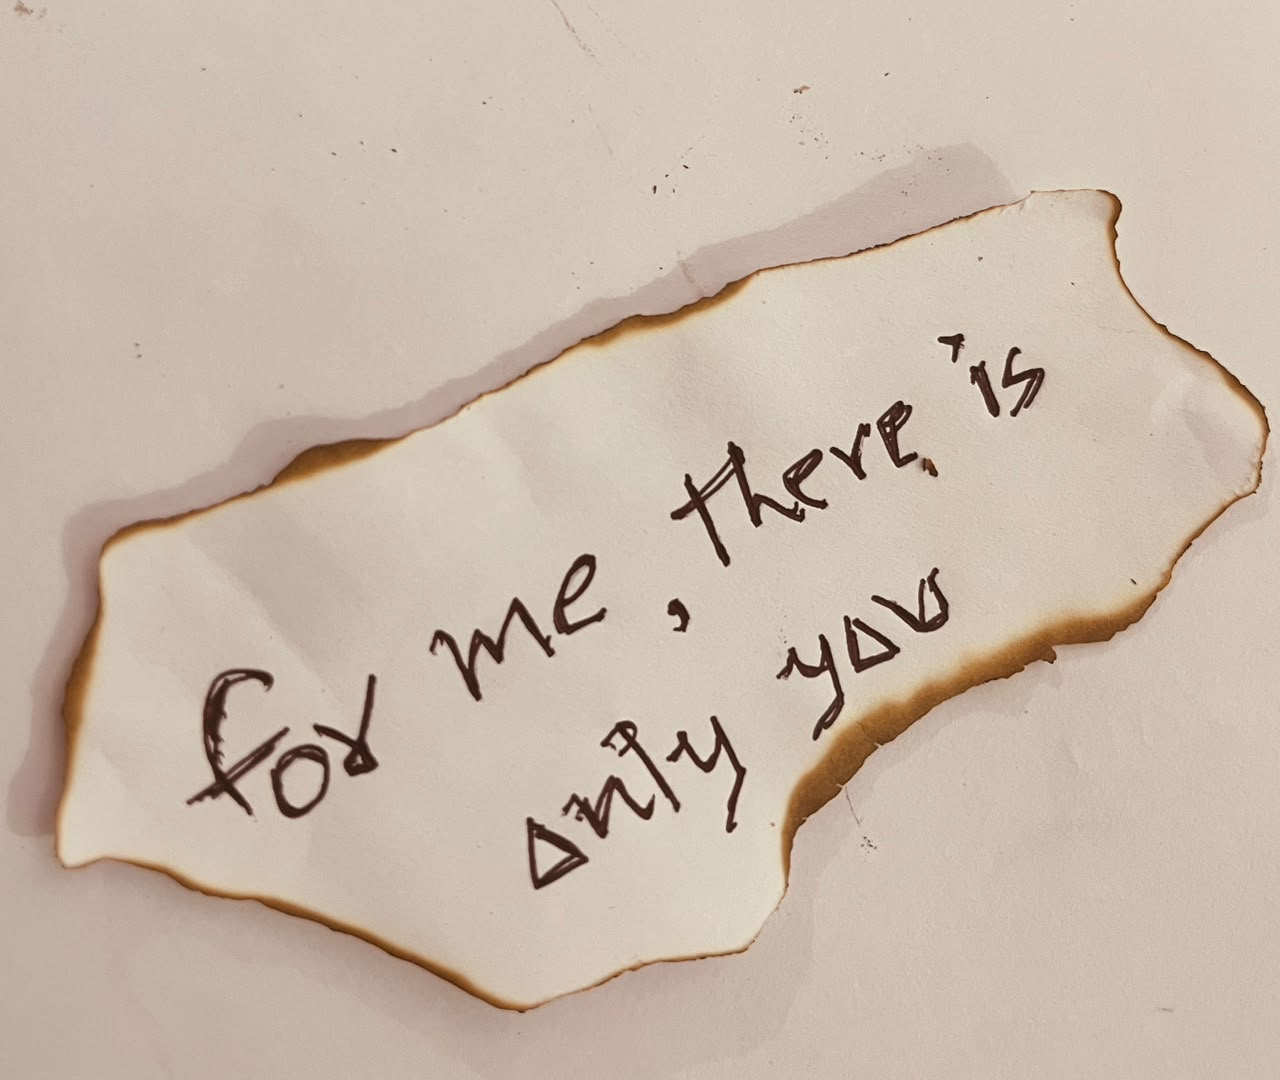
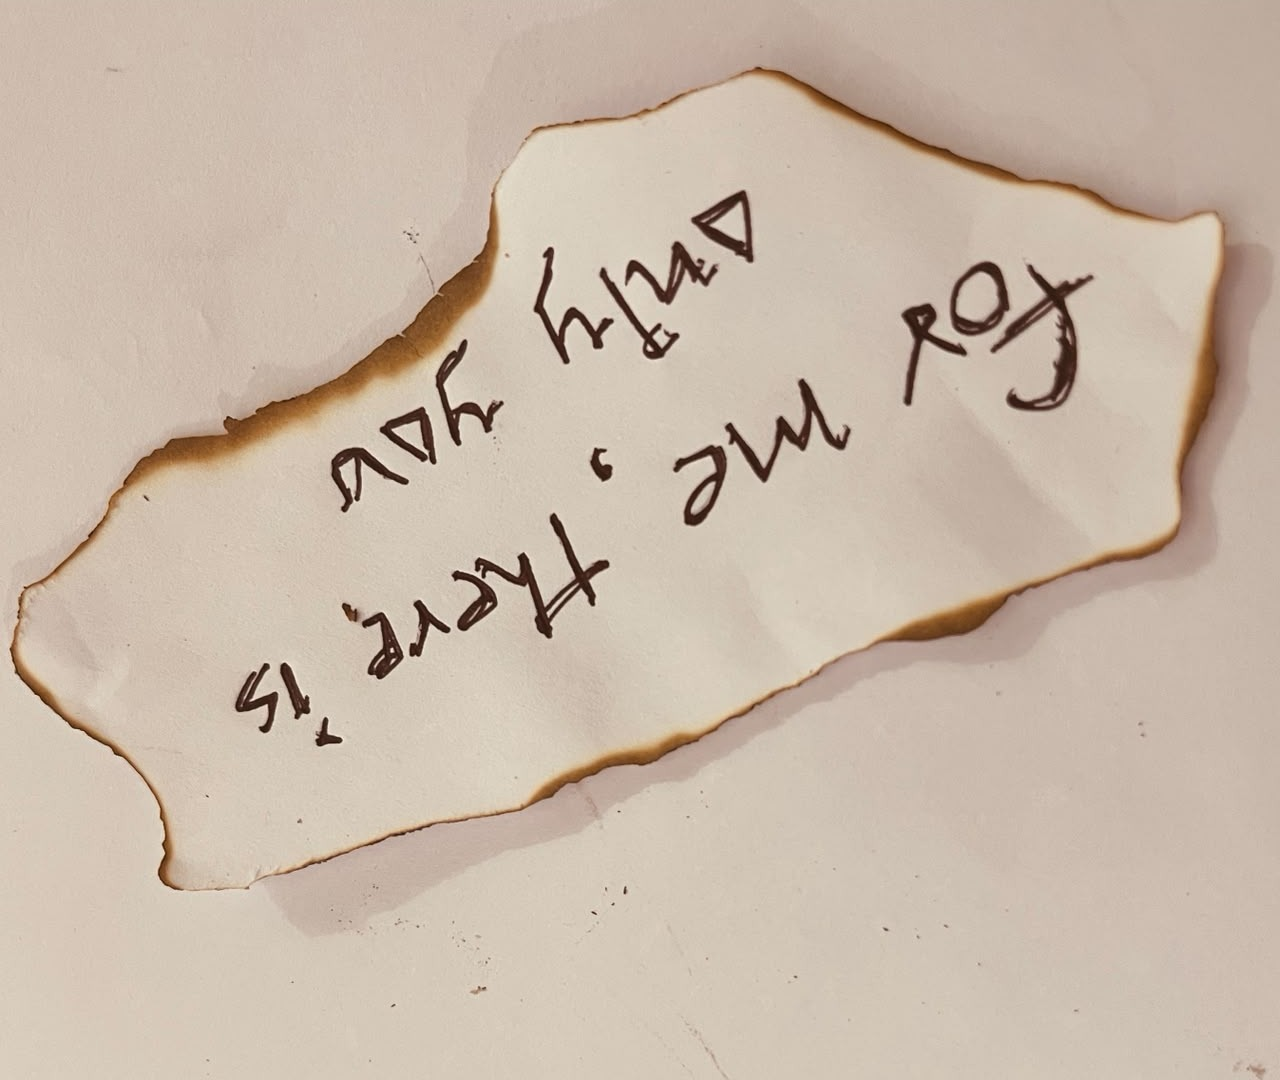
Refactor media handling and improve quiz functionality; update metadata and remove unused Vercel configuration

diff --git a/src/components/story/story-experience.tsx b/src/components/story/story-experience.tsx
@@ -42,7 +42,7 @@ export function StoryExperience({ content }: { content: SafeContent }) {
     {view === "gift" && <Gift onOpen={() => { setConfetti(true); setTimeout(() => setConfetti(false), 2400); }} />}
     {view === "ending" && <Ending content={content} onSecret={() => go("secret")} onReplay={() => { localStorage.removeItem("for-u-sudd-progress"); setChapter(0); setQuiz(0); go("welcome"); }} />}
     {view === "secret" && <SecretAlbum content={content} onOpen={setMediaId} onExit={() => go("ending")} />}
-  </motion.section></AnimatePresence>{view !== "start" && view !== "ending" && <nav className="story-nav" aria-label="Story navigation"><button className="secondary" onClick={previous} disabled={index === 0}><ArrowLeft aria-hidden="true" /> Back</button><button className="primary" onClick={next}>Continue <ArrowRight aria-hidden="true" /></button></nav>}<AnimatePresence>{active?.kind === "image" && <MediaOverlay media={active} onClose={() => setMediaId(null)} />}</AnimatePresence></main>;
+  </motion.section></AnimatePresence>{view !== "start" && view !== "ending" && view !== "quiz" && <nav className="story-nav" aria-label="Story navigation"><button className="secondary" onClick={previous} disabled={index === 0}><ArrowLeft aria-hidden="true" /> Back</button><button className="primary" onClick={next}>Continue <ArrowRight aria-hidden="true" /></button></nav>}<AnimatePresence>{active?.kind === "image" && <MediaOverlay media={active} onClose={() => setMediaId(null)} />}</AnimatePresence></main>;
 }
 
 function Preflight({ onReady }: { onReady: () => void }) { const [ready, setReady] = useState(false); useEffect(() => { const timer = setTimeout(() => setReady(true), 420); return () => clearTimeout(timer); }, []); return <div className="poster preflight"><Heart className="poster-heart" fill="currentColor" aria-hidden="true"/><p className="eyebrow">loading memories</p><h1>{ready ? "Ready when you are." : "Just a moment…"}</h1><p>{ready ? "The first memory is waiting." : "Preparing only the next small piece of your story."}</p>{ready && <button className="primary" onClick={onReady}>Continue <ArrowRight /></button>}</div>; }
@@ -53,7 +53,7 @@ function Chapter({ chapter, media }: { chapter: StoryContent["chapters"][number]
 function Albums({ content, onOpen }: { content: SafeContent; onOpen: (id: string) => void }) { return <section className="collection"><p className="eyebrow">the little things</p><h1>Our photo album</h1>{content.albums.map((album) => <div className="album" key={album.id}><h2>{album.title}</h2><div className="photo-grid">{album.mediaIds.map((id) => { const media = content.media.find((item) => item.id === id); return media && <button className="photo-button" onClick={() => onOpen(id)} key={id}><MediaImage media={media} /><span>{media.caption}</span></button>; })}</div></div>)}</section>; }
 function Videos({ content, onForegroundPlay, onForegroundEnd }: { content: SafeContent; onForegroundPlay: () => void; onForegroundEnd: () => void }) { return <section className="collection"><p className="eyebrow">press play</p><h1>Little moving memories</h1>{content.videos.length ? <div className="video-list">{content.videos.map((video) => { const media = content.media.find((item) => item.id === video.mediaId); const poster = media?.posterId ? content.media.find((item) => item.id === media.posterId) : undefined; return media && <article className="video-card" key={video.id}><video src={`/api/media/${media.id}`} controls playsInline preload="metadata" poster={poster ? `/api/media/${poster.id}` : undefined} onPlay={onForegroundPlay} onEnded={onForegroundEnd} /><span><Play fill="currentColor" />{video.title}</span></article>; })}</div> : <Empty title="More is on its way" text="Approved video memories will appear here when they are ready." />}</section>; }
 function Voice({ content, onForegroundPlay, onForegroundEnd }: { content: SafeContent; onForegroundPlay: () => void; onForegroundEnd: () => void }) { const media = content.voice.mediaId ? content.media.find((item) => item.id === content.voice.mediaId) : undefined; return <section className="voice"><p className="eyebrow">a voice to keep</p><h1>{content.voice.title}</h1>{media ? <div className="inline-audio"><Play fill="currentColor" aria-hidden="true" /><audio src={`/api/media/${media.id}`} controls preload="metadata" onPlay={onForegroundPlay} onEnded={onForegroundEnd} /></div> : <Empty title="A message is waiting" text="This part of the story will open when its voice note is ready." />}</section>; }
-function Quiz({ item, final, onNext }: { item: StoryContent["quiz"][number]; final: boolean; onNext: () => void }) { const [answer, setAnswer] = useState(""); const [feedback, setFeedback] = useState(""); const submit = () => { if (matchesAnswer(answer, item.acceptedAnswers)) { setFeedback("That is right. ✦"); } else setFeedback(item.hint ?? "Not quite — try again."); }; return <section className="quiz"><p className="eyebrow">a question for you</p><h1>{item.question}</h1><label htmlFor={`quiz-${item.id}`} className="sr-only">Your answer</label><input id={`quiz-${item.id}`} value={answer} onChange={(event) => setAnswer(event.target.value)} onKeyDown={(event) => event.key === "Enter" && submit()} placeholder="Type your answer"/><button className="primary" onClick={feedback.startsWith("That") ? onNext : submit}>{feedback.startsWith("That") ? (final ? "Open the letter" : "Next question") : "Check answer"} <ArrowRight /></button><p aria-live="polite" className="quiz-feedback">{feedback}</p></section>; }
+function Quiz({ item, final, onNext }: { item: StoryContent["quiz"][number]; final: boolean; onNext: () => void }) { const [answer, setAnswer] = useState(""); const [feedback, setFeedback] = useState(""); const [accepted, setAccepted] = useState(false); const submit = () => { if (matchesAnswer(answer, item.acceptedAnswers)) { setAccepted(true); setFeedback("That is right. ✦"); return; } setAccepted(false); setFeedback(item.hint ? `Not quite — ${item.hint}` : "Not quite — try again."); }; return <section className="quiz"><p className="eyebrow">a question for you</p><h1>{item.question}</h1><label htmlFor={`quiz-${item.id}`} className="sr-only">Your answer</label><input id={`quiz-${item.id}`} value={answer} onChange={(event) => { setAnswer(event.target.value); setAccepted(false); setFeedback(""); }} onKeyDown={(event) => event.key === "Enter" && submit()} placeholder="Type your answer"/><button className="primary" onClick={accepted ? onNext : submit}>{accepted ? (final ? "Open the letter" : "Next question") : "Continue"} <ArrowRight /></button><p aria-live="polite" className="quiz-feedback">{feedback}</p></section>; }
 function Reveal({ title, entries }: { title: string; entries: string[] }) { const [index, setIndex] = useState(0); return <section className="reveal"><p className="eyebrow">one at a time</p><h1>{title}</h1>{entries.length ? <><blockquote>“{entries[index]}”</blockquote><button className="secondary" onClick={() => setIndex((value) => (value + 1) % entries.length)}>Another one <Heart size={16} fill="currentColor" /></button></> : <Empty title="A little more is waiting" text="This chapter is ready for the next approved detail." />}</section>; }
 function Letter({ content, onOpen }: { content: SafeContent; onOpen: (id: string) => void }) { const notes = content.letter.mediaIds.map((id) => content.media.find((item) => item.id === id)).filter((item): item is SafeContent["media"][number] => Boolean(item)); return <article className="letter"><p className="eyebrow">a note for you</p><h1>My dearest {content.participants.nickname},</h1><p>{content.letter.body}</p>{notes.length > 0 && <div className="note-grid" aria-label="Handwritten notes">{notes.map((note) => <button className="note-card" key={note.id} onClick={() => onOpen(note.id)}><MediaImage media={note} /><span>{note.caption}</span></button>)}</div>}<footer>{content.letter.signature}</footer></article>; }
 function Cake({ onNext }: { onNext: () => void }) { const [lit, setLit] = useState(true); return <section className="cake"><p className="eyebrow">make a wish</p><button className={`cake-art ${lit ? "lit" : ""}`} onClick={() => setLit(false)} aria-label="Blow out the candle"><span className="flame" />🎂</button><h1>{lit ? "Tap the candle" : "Wish made."}</h1><p>{lit ? "Your tap is all it takes." : "May this year be as lovely as you are."}</p>{!lit && <button className="primary" onClick={onNext}>One more surprise <ArrowRight /></button>}</section>; }

diff --git a/tests/e2e/access.spec.ts b/tests/e2e/access.spec.ts
@@ -10,3 +10,4 @@ test("protects the story and allows the private flow", async ({ page }) => {
 });
 test("does not disclose media to unauthenticated requests", async ({ request }) => { const response = await request.get("/api/media/demo-first"); expect(response.status()).toBe(404); });
 test("loads every private photo through the protected route", async ({ page }) => { await enterStory(page); const imageIds = ["photo-first","photo-sky","photo-cafe","photo-hands","photo-car","photo-rose","photo-escalator","photo-close","photo-night","photo-smile","photo-mirror","photo-city","photo-flower","photo-daylight","photo-garden","photo-green","photo-peace","photo-outdoor","photo-tree","photo-moon","photo-glasses","photo-filter","photo-last","note-universe","note-heart","note-only-you","note-rare","note-prettiest"]; const results = await page.evaluate(async (ids) => Promise.all(ids.map((id) => new Promise<boolean>((resolve) => { const image = new Image(); image.onload = () => resolve(image.naturalWidth > 0 && image.naturalHeight > 0); image.onerror = () => resolve(false); image.src = `/api/media/${id}`; }))), imageIds); expect(results.every(Boolean)).toBe(true); });
+test("keeps the quiz on the current question until its answer is correct", async ({ page }) => { await enterStory(page); await page.evaluate(() => localStorage.setItem("for-u-sudd-progress", "quiz")); await page.reload(); await expect(page.getByRole("heading", { name: /when did we become officially committed/i })).toBeVisible(); await expect(page.getByRole("navigation", { name: /story navigation/i })).toHaveCount(0); await page.getByPlaceholder("Type your answer").fill("tomorrow"); await page.getByRole("button", { name: /^continue/i }).click(); await expect(page.getByText(/think of our december commitment/i)).toBeVisible(); await expect(page.getByRole("heading", { name: /when did we become officially committed/i })).toBeVisible(); await page.getByPlaceholder("Type your answer").fill("2025-12-26"); await page.getByRole("button", { name: /^continue/i }).click(); await expect(page.getByRole("button", { name: /next question/i })).toBeVisible(); });

diff --git a/app/globals.css b/app/globals.css
@@ -1,4 +1,5 @@
 @import "tailwindcss";
+.note-card img{object-fit:contain}
 .video-card video{display:block;width:100%;height:100%;object-fit:cover;background:#181818}.inline-audio{display:flex;align-items:center;gap:12px;max-width:440px;margin:0 auto;padding:16px;border-radius:18px;background:#fffaf1;box-shadow:var(--shadow)}.inline-audio audio{width:100%}.inline-image{position:relative;display:grid;gap:10px;margin:20px 0;padding:12px;background:#fffaf1;border-radius:20px;box-shadow:var(--shadow)}.inline-image .icon-button{justify-self:end}.inline-image img{display:block;max-width:100%;max-height:70dvh;margin:auto;object-fit:contain;border-radius:12px}.inline-image figcaption{text-align:center;color:var(--muted);font-size:.9rem}
 .secret-trigger{display:grid;place-items:center;width:44px;height:44px;margin:24px auto 0;padding:0;border:0;border-radius:50%;background:transparent;color:var(--accent)}.secret-trigger:focus-visible{outline:3px solid var(--deep);outline-offset:3px}.secret-album .secondary{margin-top:24px}
 .note-grid{display:grid;grid-template-columns:repeat(2,minmax(0,1fr));gap:12px;margin-top:25px}.note-card{position:relative;display:grid;gap:7px;overflow:hidden;padding:0;border:0;border-radius:12px;background:#eee1d0;color:var(--text);text-align:left}.note-card img{display:block;width:100%;aspect-ratio:1.12;object-fit:cover;transition:transform .25s ease}.note-card span{padding:0 10px 11px;font-size:.75rem;font-weight:700}.note-card:focus-visible{outline:3px solid var(--deep);outline-offset:3px}@media(min-width:700px){.note-grid{grid-template-columns:repeat(3,minmax(0,1fr))}}

diff --git a/app/layout.tsx b/app/layout.tsx
@@ -1,5 +1,5 @@
 import type { Metadata } from "next";
 import "./globals.css";
 
-export const metadata: Metadata = { title: "A private story", description: "A private experience.", robots: { index: false, follow: false, nocache: true }, openGraph: { title: "A private story", description: "A private experience." } };
+export const metadata: Metadata = { title: "for u, sudd", description: "A private experience.", robots: { index: false, follow: false, nocache: true }, openGraph: { title: "for u, sudd", description: "A private experience." } };
 export default function RootLayout({ children }: Readonly<{ children: React.ReactNode }>) { return <html lang="en"><body>{children}</body></html>; }

diff --git a/next.config.ts b/next.config.ts
@@ -3,7 +3,7 @@ import type { NextConfig } from "next";
 const scriptPolicy = process.env.NODE_ENV === "production" ? "script-src 'self' 'unsafe-inline'" : "script-src 'self' 'unsafe-inline' 'unsafe-eval'";
 const nextConfig: NextConfig = {
   poweredByHeader: false,
-  outputFileTracingIncludes: { "/story": ["./content/content-config.demo.json", "./content/content-config.private.json"], "/api/media/[id]": ["./private-media/**/*", "./content/content-config.private.json", "./content/content-config.demo.json"] },
+  outputFileTracingIncludes: { "/api/media/*": ["./private-media/**/*"] },
   async headers() {
     return [{
       source: "/:path*",

diff --git a/README.md b/README.md
@@ -53,7 +53,7 @@ To enforce the production content gate, run `CONTENT_VALIDATION_PRODUCTION=true 
 
 The ignored `.env.vercel` file contains the real local access secret and session secret for pasting into Vercel. The production default is the supplied private manifest and `private-media/` directory; set `CONTENT_CONFIG_PATH=content/content-config.demo.json` only for an intentionally synthetic demo. Private assets are not in `public/`, are included only in the authorized media function, and are served solely through `/api/media/:id`. The GitHub repository and Vercel project must remain private because their administrators can access build artifacts. For a stronger separation later, set `MEDIA_PROVIDER=remote`, `PRIVATE_MEDIA_BASE_URL`, and `PRIVATE_MEDIA_TOKEN` for an authenticated HTTPS media service; the app proxies it through the same authorized endpoint, including byte-range requests.
 
-If Vercel logs show `ENOENT ... content-config.demo.json`, deploy the latest commit: the content manifests are now bundled into the server-only loader and `vercel.json` explicitly includes `private-media/**` in the protected media function. In Vercel, add the values from the ignored `.env.vercel` file for **Production**, then redeploy with cache disabled once.
+If Vercel logs show `ENOENT ... content-config.demo.json`, deploy the latest commit: the content manifests are bundled into the server-only loader and Next.js traces `private-media/**` into the protected media route. In Vercel, add the values from the ignored `.env.vercel` file for **Production**, then redeploy with cache disabled once.
 
 ## Current content gaps
 
